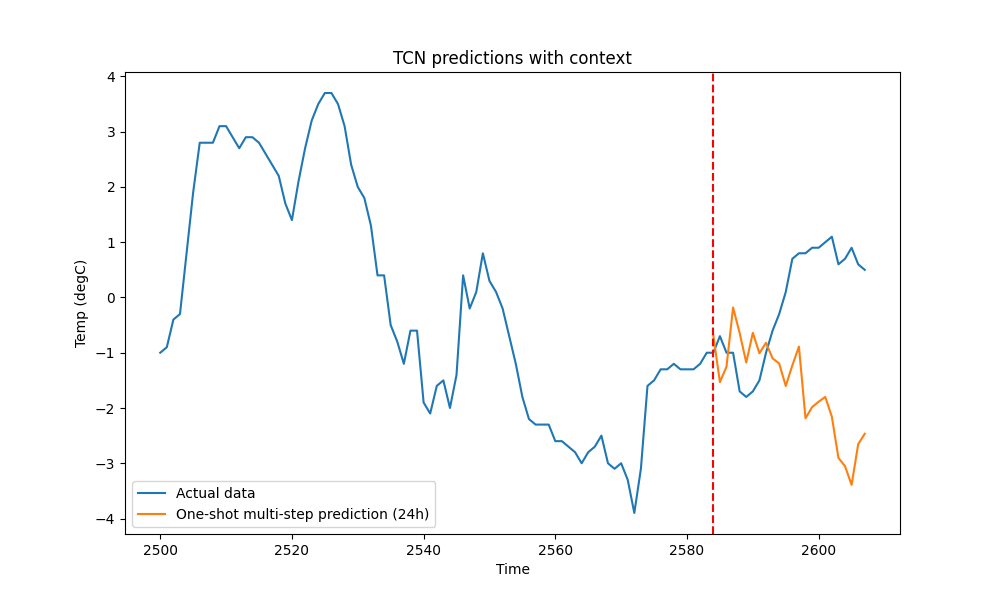
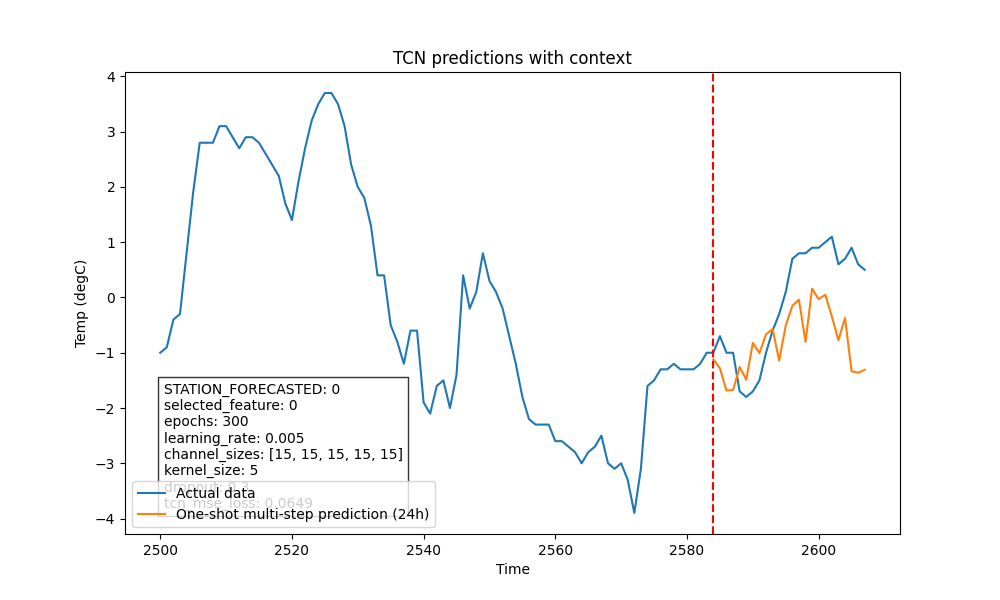
Added features to graphs and add saving of parameter iterations

diff --git a/tcn_implementation.py b/tcn_implementation.py
@@ -14,10 +14,10 @@ from LSTM.lstm_model import LSTM
 
 # Station and feature that we want to forecast
 stations = [30165,48374,49608]
-STATION_FORCASTED = 0
+STATION_FORECASTED = 0
 feature_list = ['Temp (degC)','Rel Hum (%)','Precip. Amount (mm)','Stn Press (kPa)','Wind Spd (km/h)']
 FEATURE_FORECASTED = 0
-selected_feature = len(feature_list)*STATION_FORCASTED+FEATURE_FORECASTED
+selected_feature = len(feature_list)*STATION_FORECASTED+FEATURE_FORECASTED
 num_features = len(stations) * len(feature_list)
 
 # Context and forecast length# 
@@ -25,12 +25,13 @@ TS_PAST     = 120   # Time steps to look into the past (context) [h]
 TS_FUTURE   = 24    # Time steps to look into the future (forecast) [h]
 
 # Global nn parameters
-epochs = 150                        # Training epochs
+epochs = 300                        # Training epochs
 input_size = TS_PAST                # Context
 output_size = TS_FUTURE             # Forecast
 channel_sizes = [num_features]*5    # Temporal causal layer channels
 kernel_size = 5                     # Convolution kernel size
-dropout = .0                        # Dropout
+dropout = .3                        # Dropout
+learning_rate = 0.005               # Learning rate
 
 # Import time-series from stored pickles
 df_list = []
@@ -96,7 +97,7 @@ model = TCN(**model_params)
 # model = LSTM(TS_FUTURE,num_features,2,1)
 
 # Define optimizer and loss functions
-optimizer   = torch.optim.Adam(params = model.parameters(), lr = .005)
+optimizer   = torch.optim.Adam(params = model.parameters(), lr = learning_rate)
 mse_loss    = torch.nn.MSELoss()
 
 # Training
@@ -150,6 +151,7 @@ plt.show()
 
 # Load best trained model
 best_model = TCN(**model_params)
+# best_model = LSTM(TS_FUTURE,num_features,2,1)
 best_model.eval()
 best_model.load_state_dict(best_params)
 
@@ -182,6 +184,26 @@ figure_path = os.path.join(plot_results_directory, "TCN_predictions.png")
 plt.savefig(figure_path)
 plt.show()
 
+# Save parameters and results to csv
+csv_file_path = os.path.join(plot_results_directory, "parameter_iterations.csv")
+# Check if the CSV file exists
+if not os.path.isfile(csv_file_path):
+    # If the file does not exist, create a new DataFrame
+    df_params_iter = pd.DataFrame(columns=['STATION_FORECASTED', 'selected_feature', 'epochs', 'learning_rate', 'channel_sizes', 'kernel_size', 'dropout', 'tcn_mse_loss'])
+else:
+    # If the file exists, load the existing DataFrame
+    df_params_iter = pd.read_csv(csv_file_path)
+new_row = {'STATION_FORECASTED': STATION_FORECASTED,
+           'selected_feature': selected_feature,
+           'epochs': epochs,
+           'learning_rate': learning_rate,
+           'channel_sizes': channel_sizes,
+           'kernel_size': kernel_size,
+           'dropout': dropout,
+           'tcn_mse_loss': tcn_mse_loss}
+df_params_iter = pd.concat([df_params_iter, pd.DataFrame([new_row])], ignore_index=True)
+df_params_iter.to_csv(csv_file_path, index=False)
+
 # Plot prediction and context
 plt.figure(figsize=(10,6)) #plotting
 plt.title('TCN predictions with context')
@@ -198,8 +220,9 @@ plt.ylabel(f"{feature_list[selected_feature%5]}")
 plt.xlabel("Time")
 plt.legend()
 figure_path = os.path.join(plot_results_directory, "TCN_predictions_context.png")
+text_content = '\n'.join([f'{key}: {value}' for key, value in new_row.items()])
+plt.text(0.05, 0.05, text_content, transform=plt.gca().transAxes, bbox=dict(facecolor='white', alpha=0.8), verticalalignment='bottom', horizontalalignment='left')
 plt.savefig(figure_path)
 plt.show()
-
 
 print("Done")
